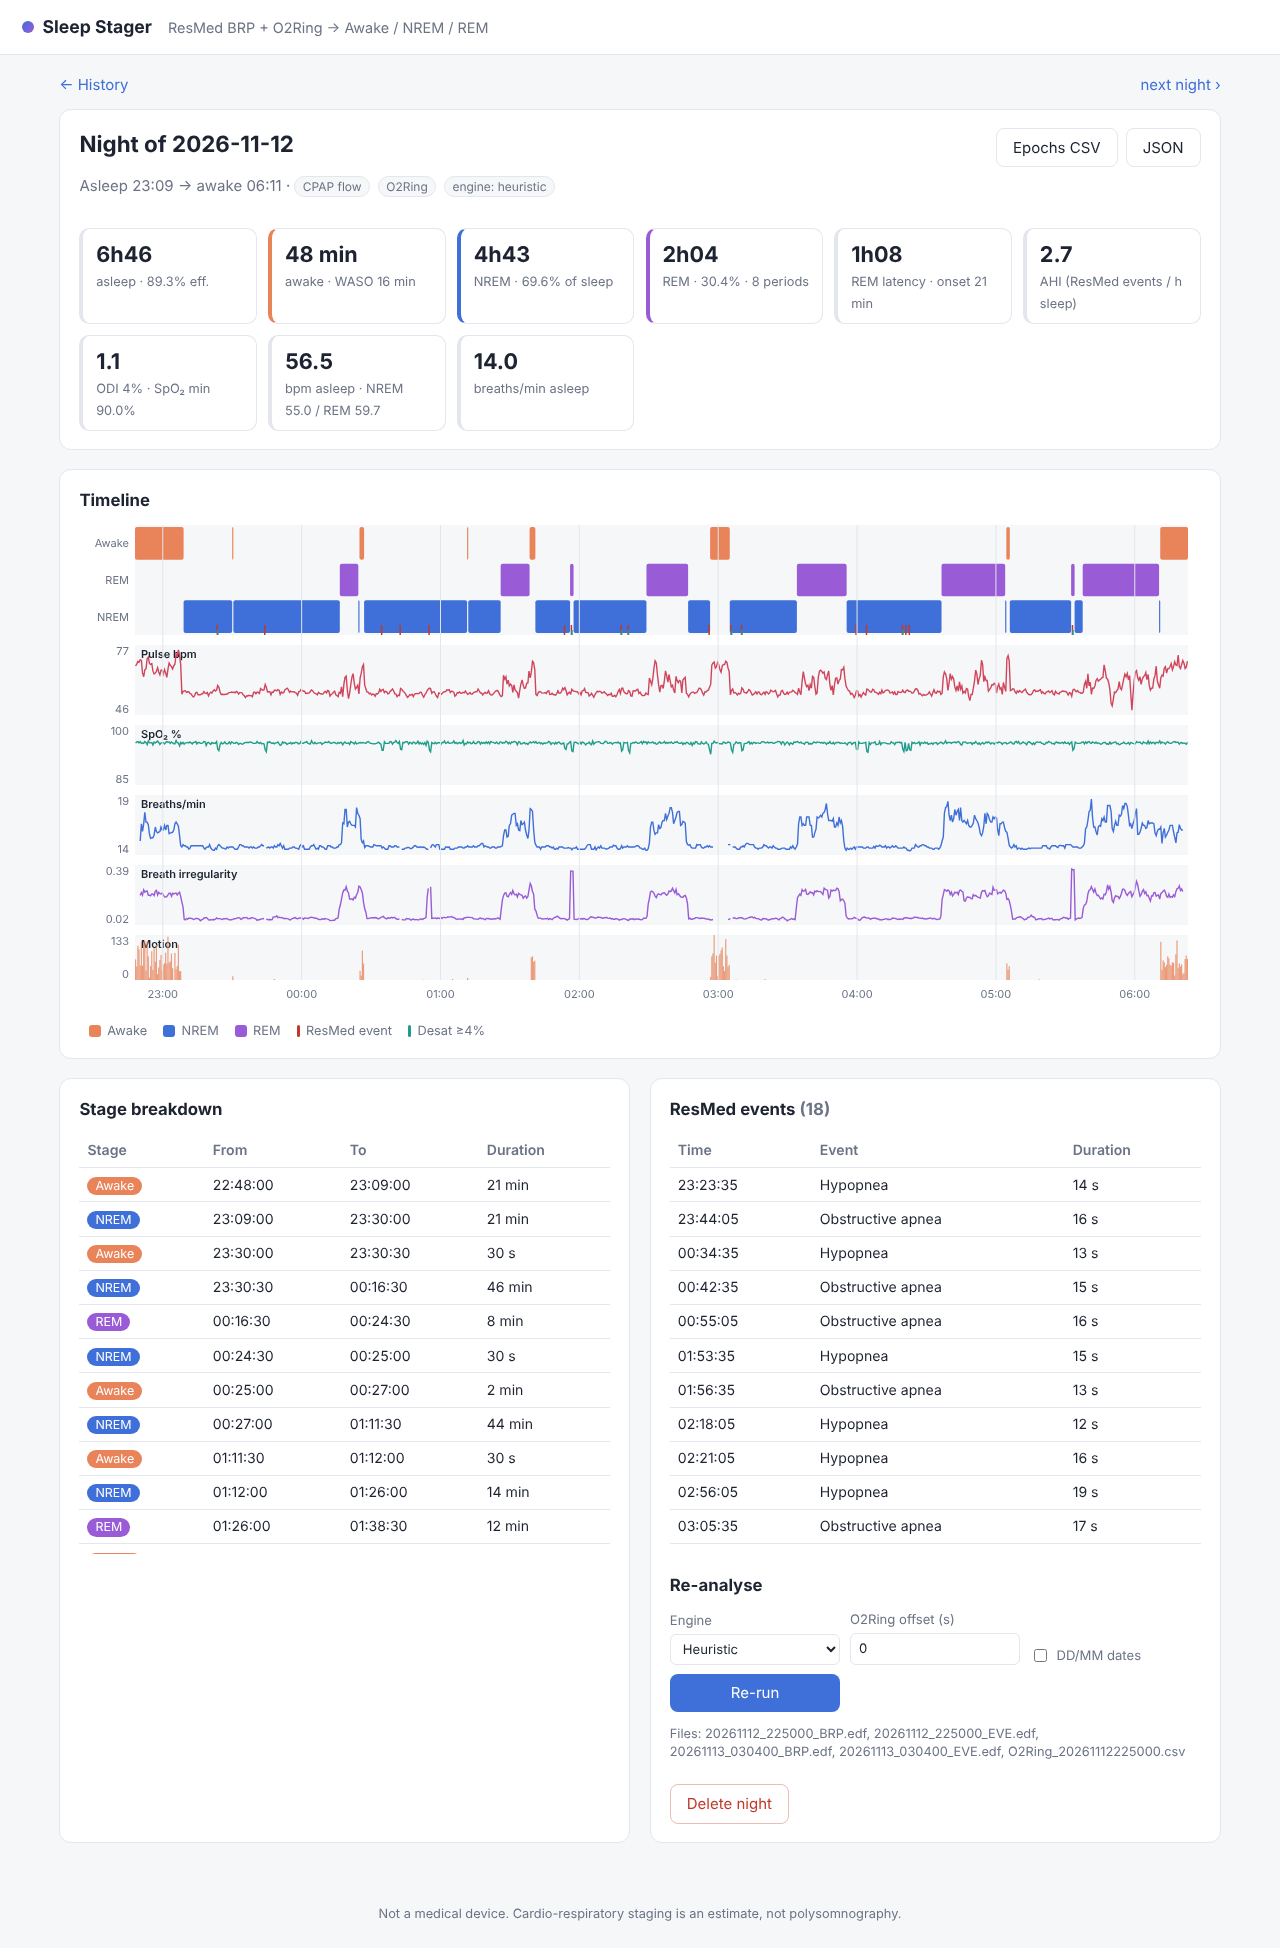
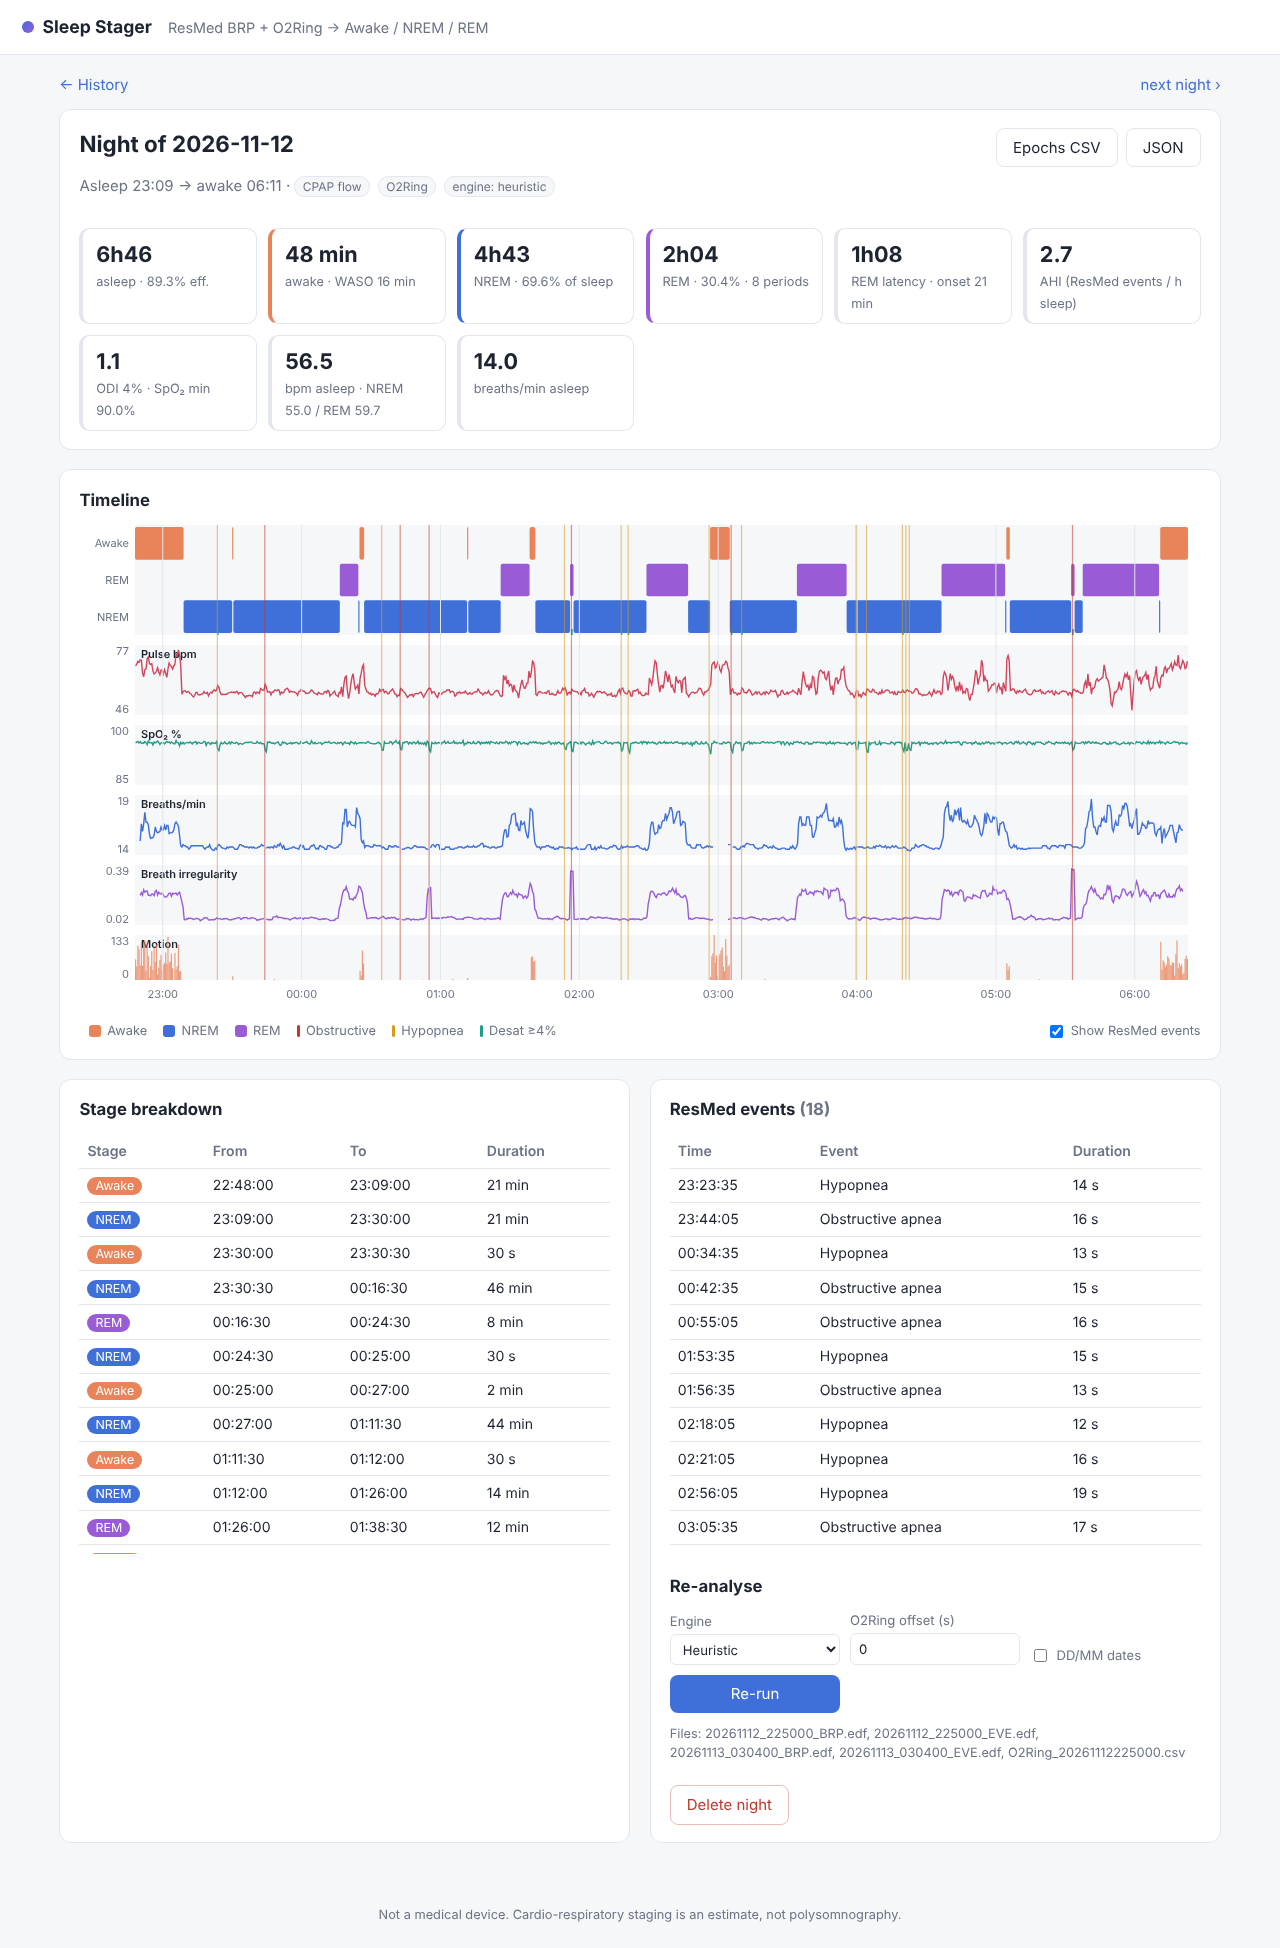
Show ResMed events as full-height lines on the timeline
Each EVE.edf event is drawn across every panel, coloured by type
(obstructive / central / hypopnea / unclassified / other), with a shaded
band for its duration when wide enough, a hover tooltip, a show/hide
toggle, and a legend limited to the types present that night.

Claude-Session: https://claude.ai/code/session_01AoqwhLNCx1qwaHs6rbQU4B

diff --git a/app/static/charts.js b/app/static/charts.js
@@ -50,10 +50,8 @@ function renderNight(host, d) {
             height: rh - 4, fill: COLORS[s], rx: 2 }, svg);
           i = j;
         }
-        for (const e of events) {
-          el('line', { x1: x(e.t), x2: x(e.t), y1: y0 + p.h - (e.source === 'resmed' ? 10 : 5),
-            y2: y0 + p.h, class: e.source === 'resmed' ? 'evtick' : 'desattick' }, svg);
-        }
+        for (const e of events) if (e.source !== 'resmed')
+          el('line', { x1: x(e.t), x2: x(e.t), y1: y0 + p.h - 6, y2: y0 + p.h, class: 'desattick' }, svg);
       } else {
         const vals = ep.map(e => e[p.key]).filter(v => v != null);
         let lo = p.min ?? Math.min(...vals), hi = p.max ?? Math.max(...vals);
@@ -86,6 +84,16 @@ function renderNight(host, d) {
       el('line', { x1: x(t), x2: x(t), y1: 0, y2: y0 - gap, class: 'grid' }, svg);
       el('text', { x: x(t), y: y0 + 8, class: 'axis mid' }, svg).textContent = hhmm(new Date(t));
     }
+    // ResMed events: full-height lines across every panel, coloured by type
+    const evLayer = el('g', { class: 'evlayer' + (showEvents ? '' : ' hidden') }, svg);
+    for (const e of events) {
+      if (e.source !== 'resmed') continue;
+      const xa = x(e.t.getTime()), xb = x(e.t.getTime() + e.duration_s * 1000);
+      const g = el('g', { class: 'ev ' + evClass(e.kind) }, evLayer);
+      if (xb - xa >= 2) el('rect', { x: xa, y: 0, width: xb - xa, height: y0 - gap, class: 'evband' }, g);
+      el('line', { x1: xa, x2: xa, y1: 0, y2: y0 - gap, class: 'evline' }, g);
+      el('title', {}, g).textContent = `${e.t.toTimeString().slice(0, 8)} ${e.kind} (${Math.round(e.duration_s)} s)`;
+    }
     // crosshair + readout
     const cross = el('line', { y1: 0, y2: y0 - gap, class: 'cross', visibility: 'hidden' }, svg);
     const tip = document.createElement('div'); tip.className = 'tip'; host.appendChild(tip);
@@ -106,8 +114,28 @@ function renderNight(host, d) {
     });
     svg.addEventListener('mouseleave', () => { cross.setAttribute('visibility', 'hidden'); tip.style.display = 'none'; });
   }
+  const kinds = new Set(events.filter(e => e.source === 'resmed').map(e => evClass(e.kind)));
+  document.querySelectorAll('.legend .lg[data-ev]').forEach(n => { if (!kinds.has(n.dataset.ev)) n.style.display = 'none'; });
+  let showEvents = true;
+  const toggle = document.getElementById('toggle-events');
+  if (toggle) {
+    if (!events.some(e => e.source === 'resmed')) toggle.closest('label').style.display = 'none';
+    toggle.addEventListener('change', () => {
+      showEvents = toggle.checked;
+      host.querySelector('.evlayer')?.classList.toggle('hidden', !showEvents);
+    });
+  }
   draw();
   let rt; window.addEventListener('resize', () => { clearTimeout(rt); rt = setTimeout(draw, 150); });
+}
+
+function evClass(kind) {
+  const k = kind.toLowerCase();
+  if (k.includes('obstructive')) return 'oa';
+  if (k.includes('central')) return 'ca';
+  if (k.includes('hypopnea')) return 'h';
+  if (k.includes('apnea')) return 'ua';
+  return 'other';
 }
 
 function renderTrend(host, rows) {

diff --git a/app/static/app.css b/app/static/app.css
@@ -64,9 +64,19 @@ svg .axis.end { text-anchor: end; } svg .axis.mid { text-anchor: middle; }
 svg .pbg { fill: var(--bg); }
 svg .grid { stroke: var(--line); stroke-width: 1; }
 svg .cross { stroke: var(--ink); stroke-width: 1; opacity: .5; }
-svg .evtick { stroke: #c0392b; stroke-width: 1.5; } svg .desattick { stroke: var(--line2); stroke-width: 1.5; }
+svg .desattick { stroke: var(--line2); stroke-width: 1.5; }
+svg .evlayer.hidden { display: none; }
+svg .ev { --ec: #8a8f9c; } svg .ev.oa { --ec: #c0392b; } svg .ev.ca { --ec: #2e9e5b; }
+svg .ev.h { --ec: #d89a1d; } svg .ev.ua { --ec: #7f5539; }
+svg .evline { stroke: var(--ec); stroke-width: 1.2; opacity: .55; }
+svg .evband { fill: var(--ec); opacity: .12; }
+svg .ev:hover .evline { opacity: 1; stroke-width: 2; }
 .tip { position: absolute; display: none; background: var(--card); border: 1px solid var(--line); border-radius: 8px; padding: .4rem .6rem; font-size: .8rem; pointer-events: none; box-shadow: 0 4px 16px #0002; min-width: 170px; }
 .legend { font-size: .8rem; color: var(--muted); margin-top: .5rem; display: flex; gap: .4rem; align-items: center; flex-wrap: wrap; }
 .sw { width: 12px; height: 12px; border-radius: 3px; display: inline-block; margin-left: .6rem; }
 .sw.awake { background: var(--awake); } .sw.nrem { background: var(--nrem); } .sw.rem { background: var(--rem); }
-.sw.ev { background: #c0392b; width: 3px; } .sw.desat { background: var(--line2); width: 3px; }
+.sw.desat { background: var(--line2); width: 3px; }
+.sw.oa { background: #c0392b; width: 3px; } .sw.ca { background: #2e9e5b; width: 3px; }
+.sw.h { background: #d89a1d; width: 3px; } .sw.ua { background: #7f5539; width: 3px; } .sw.other { background: #8a8f9c; width: 3px; }
+.legend label { display: inline-flex; align-items: center; gap: .3rem; margin-left: auto; cursor: pointer; }
+.legend .lg { display: inline-flex; align-items: center; gap: .4rem; }

diff --git a/app/templates/night.html b/app/templates/night.html
@@ -43,7 +43,13 @@
   <h2>Timeline</h2>
   <div id="chart" class="chart"></div>
   <div class="legend"><span class="sw awake"></span>Awake <span class="sw nrem"></span>NREM <span class="sw rem"></span>REM
-    <span class="sw ev"></span>ResMed event <span class="sw desat"></span>Desat ≥4%</div>
+    <span class="lg" data-ev="oa"><span class="sw oa"></span>Obstructive</span>
+    <span class="lg" data-ev="ca"><span class="sw ca"></span>Central</span>
+    <span class="lg" data-ev="h"><span class="sw h"></span>Hypopnea</span>
+    <span class="lg" data-ev="ua"><span class="sw ua"></span>Apnea (unclassified)</span>
+    <span class="lg" data-ev="other"><span class="sw other"></span>RERA/other</span>
+    <span class="sw desat"></span>Desat ≥4%
+    <label><input type="checkbox" id="toggle-events" checked> Show ResMed events</label></div>
 </section>
 
 <section class="grid2">
